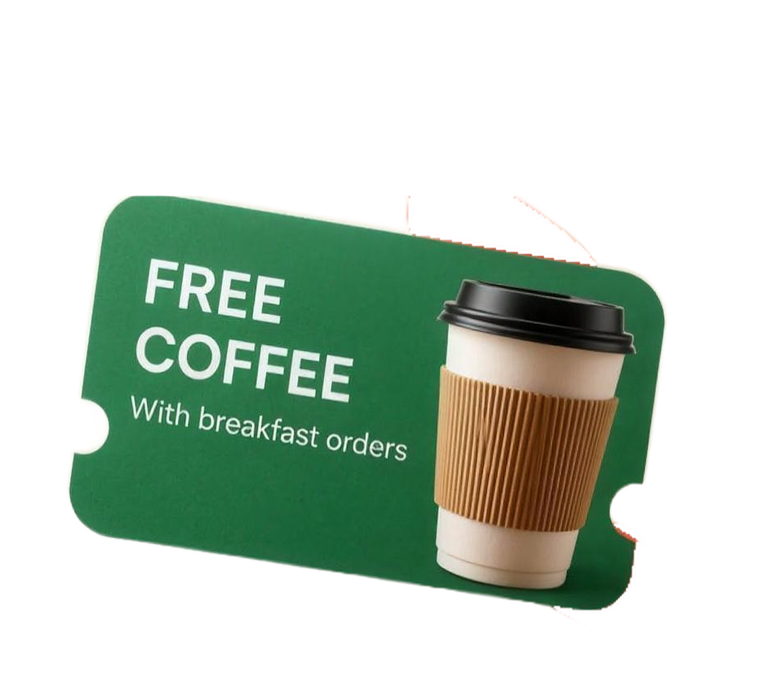
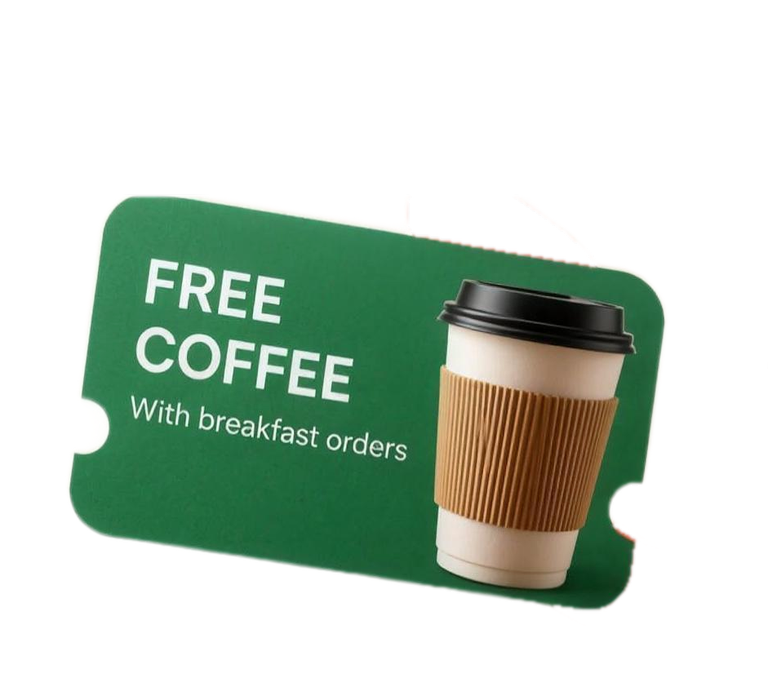
fix(customer-web): hero v4.2: artwork at 76% with feathered borders (kills the background seam), refined cutout mattes (erode + soften; pizza bezel remnant cleared), gentler hover lift

diff --git a/apps/customer-web/components/landing/HeroCollage.tsx b/apps/customer-web/components/landing/HeroCollage.tsx
@@ -68,7 +68,7 @@ function CardLayer({
         className="relative h-full w-full"
         variants={{
           rest: { scale: 1.07, filter: 'drop-shadow(0 10px 14px rgba(97,20,4,0.12))' },
-          hover: { scale: 1.16, filter: 'drop-shadow(0 26px 34px rgba(97,20,4,0.24))' },
+          hover: { scale: 1.12, filter: 'drop-shadow(0 22px 30px rgba(97,20,4,0.22))' },
         }}
         transition={{ type: 'spring', stiffness: 240, damping: 20 }}
       >
@@ -143,11 +143,14 @@ export function HeroCollage() {
 
   return (
     <div ref={ref} className="absolute inset-0 overflow-hidden" aria-hidden="true" style={{ background: GROUND, pointerEvents: 'auto' }}>
-      {/* 84% height: the group breathes instead of pressing every edge */}
+      {/* 76% height: the group breathes instead of pressing the edges */}
       <motion.div
-        className="absolute right-[2%] top-1/2 h-[84%] max-w-[96%]"
+        className="absolute right-[4%] top-1/2 h-[76%] max-w-[92%]"
         style={{ aspectRatio: `${IMG_W} / ${IMG_H}`, y: '-50%', translateY: reduceMotion ? 0 : lift }}
       >
+        {/* The artwork's cream is not perfectly uniform, so its rectangle
+            printed a faint edge against the ground: feather all four borders
+            and it melts in. Cards are outside this mask on purpose. */}
         <Image
           src="/app-shots/hero-collage/base-v2.jpg"
           alt=""
@@ -155,6 +158,14 @@ export function HeroCollage() {
           priority
           unoptimized
           className="object-fill"
+          style={{
+            maskImage:
+              'linear-gradient(90deg, transparent 0, black 70px, black calc(100% - 70px), transparent 100%), linear-gradient(180deg, transparent 0, black 70px, black calc(100% - 70px), transparent 100%)',
+            WebkitMaskImage:
+              'linear-gradient(90deg, transparent 0, black 70px, black calc(100% - 70px), transparent 100%), linear-gradient(180deg, transparent 0, black 70px, black calc(100% - 70px), transparent 100%)',
+            maskComposite: 'intersect',
+            WebkitMaskComposite: 'source-in',
+          }}
         />
         {LAYERS.map((layer) => (
           <CardLayer key={layer.key} layer={layer} parX={parX} parY={parY} reduceMotion={!!reduceMotion} />

diff --git a/docs/design/customer-web-prelaunch/execution-log.md b/docs/design/customer-web-prelaunch/execution-log.md
@@ -329,3 +329,11 @@ edited by this workstream.
   content layer is pointer-events-none on lg with the text column and badge
   strip re-enabled, so CTAs stay clickable (verified) while hovers reach the
   cards; veil and floor fade are pointer-transparent.
+- Hero v4.2 (owner: smaller still; background edge on the right; rough card
+  edges under hover zoom): group at 76% height with 4% right inset; the
+  artwork's rectangle printed a faint seam against the ground (its cream is
+  not uniform), fixed by feathering all four borders of the base image with a
+  two-axis mask (70px, mask-composite intersect), card layers deliberately
+  outside the mask; all four cutout mattes refined (1px erode + 1.1px
+  gaussian on alpha, pizza's dark bezel remnant cleared) so silhouettes stay
+  smooth under magnification; hover lift eased 1.16 -> 1.12.
